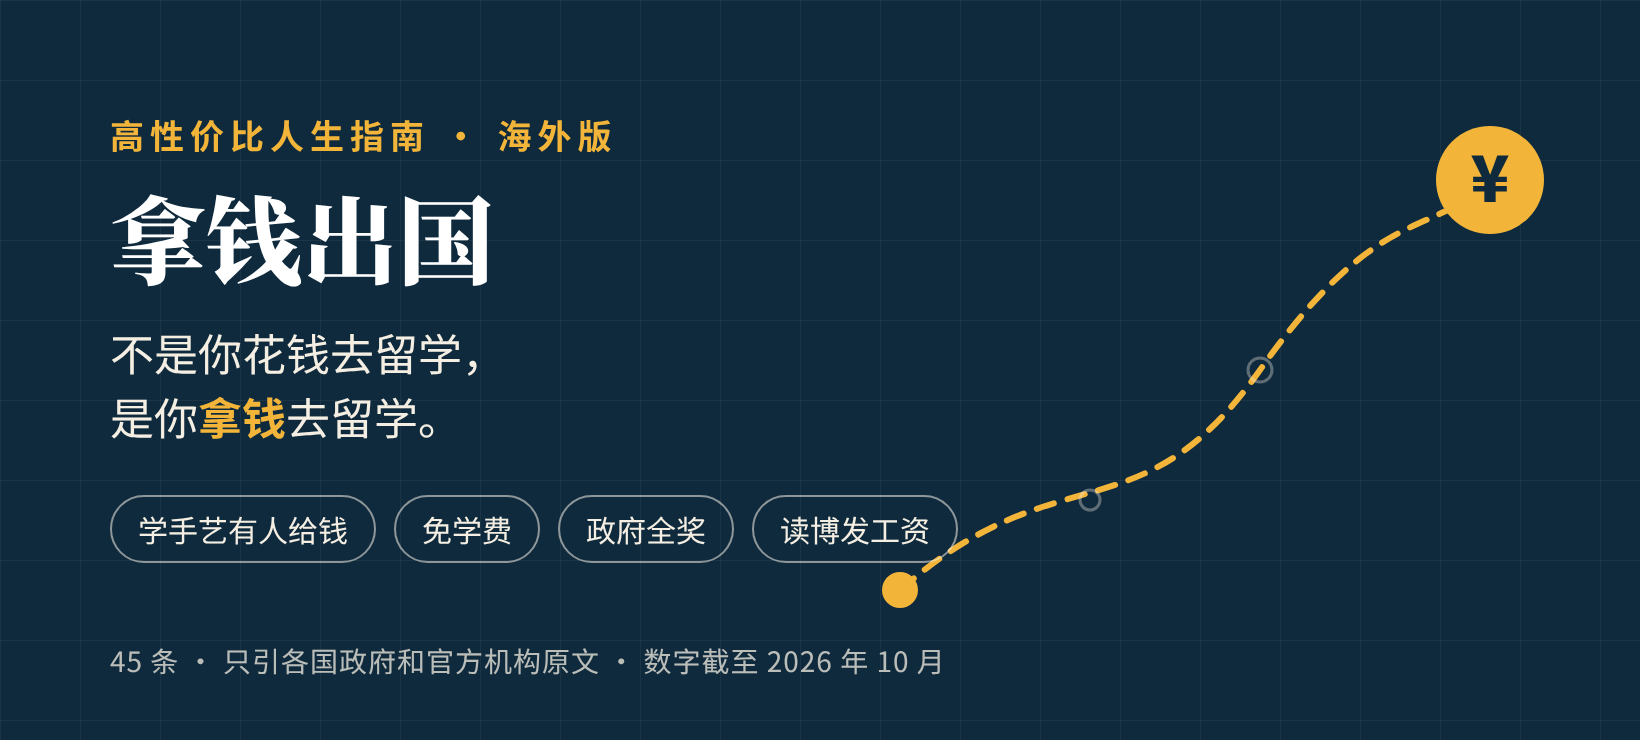
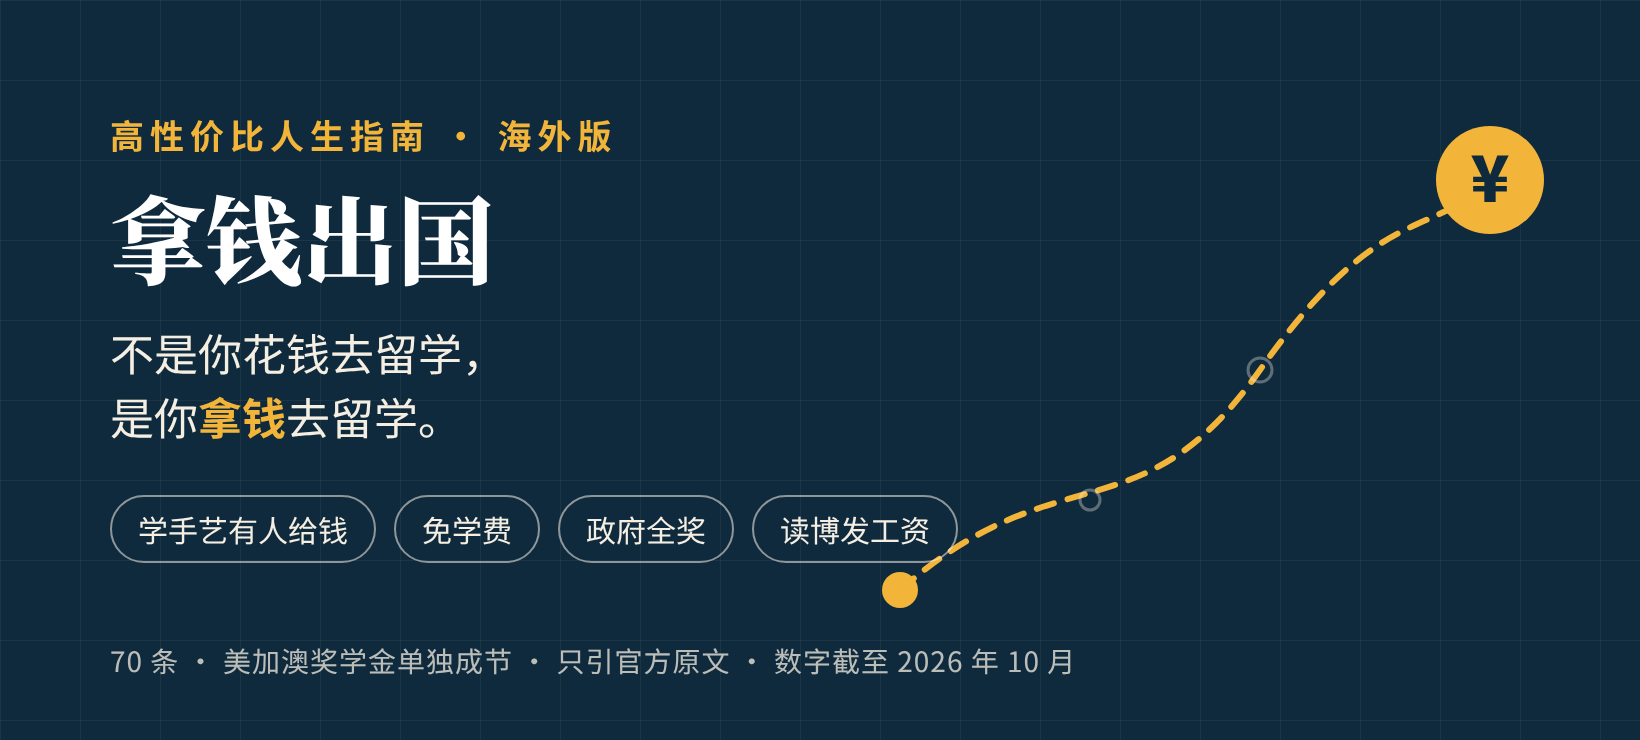
首页和检索页加入美加澳三节和联系方式

Changed region(s): [[0.1244, 0.8703, 0.653, 0.9324], [0.0622, 0.8703, 0.0933, 0.9014]]

diff --git a/index.html b/index.html
@@ -36,6 +36,8 @@
   .tag b{color:#f2b53a}
   .meta{margin-top:10px;font-size:13px;color:rgba(245,239,227,.75)}
   .meta a{color:#f5efe3}
+  .follow{margin-top:10px;display:inline-block;background:rgba(242,181,58,.15);border:1px solid rgba(242,181,58,.5);border-radius:8px;padding:4px 10px;font-size:14px}
+  .follow b{color:#f2b53a}
   .controls{background:var(--bg);border-bottom:1px solid var(--line);padding:12px 0}
   @media (min-width:760px){.controls{position:sticky;top:0;z-index:5}}
   .search{width:100%;padding:10px 12px;font-size:16px;border:1px solid var(--line);border-radius:10px;background:var(--panel);color:var(--ink)}
@@ -79,6 +81,7 @@
     <h1>拿钱出国</h1>
     <p class="tag">不是你花钱去留学，是你<b>拿钱</b>去留学。</p>
     <div class="meta"><span id="total">…</span> · 只引各国政府和官方机构原文 · 数字截至 2026 年 10 月 · <a href="https://github.com/BeckyGlobal/PaidToStudyAbroad">GitHub 仓库</a></div>
+    <div class="follow">关注作者：微信视频号 <b>Becky在地球村</b></div>
   </div>
 </header>
 
@@ -100,13 +103,14 @@
   <div id="list"></div>
   <footer>
     来源只引各国政府、政府机构和使领馆、法律原文、公立大学官网，以及政府委托或出资运营的项目官网。奖学金和签证政策每年都改，申请前请照每条的来源链接再查一遍。<br>
+    想看更多出国路径和海外生活，关注微信视频号「Becky在地球村」。<br>
     本指南不是法律、移民或财务意见。正文按 CC BY 4.0 发布。灵感来自《高性价比人生指南》（eternity4719），本站是读者做的非官方衍生作品。
   </footer>
 </main>
 
 <script>
 (function(){
-  var FILES=['01-学手艺有人给钱.md','02-学费低或不要学费.md','03-政府全奖.md','04-读博就是上班.md'];
+  var FILES=['01-学手艺有人给钱.md','02-学费低或不要学费.md','03-政府全奖.md','04-读博就是上班.md','05-美国奖学金.md','06-加拿大奖学金.md','07-澳大利亚奖学金.md'];
   var COUNTRIES=[
     ['加拿大',['加拿大','魁北克']],['德国',['德国','DAAD']],['奥地利',['奥地利','FWF']],['日本',['日本','大阪','冈山','宫崎','三重','JASSO','文部科学省','EJU']],
     ['捷克',['捷克']],['波兰',['波兰']],['匈牙利',['匈牙利']],['法国',['法国','埃菲尔']],['意大利',['意大利']],['新加坡',['新加坡']],
@@ -159,6 +163,7 @@
       var base=clean(it.title+' '+it.plain); if(/^别/.test(it.title)) base+=' '+clean(it.gain);
       it.cty=COUNTRIES.filter(function(c){return c[1].some(function(k){return base.indexOf(k)>=0;});}).map(function(c){return c[0];});
       if(!it.cty.length){var h2=clean(hay); it.cty=COUNTRIES.filter(function(c){return c[1].some(function(k){return h2.indexOf(k)>=0;});}).map(function(c){return c[0];}).slice(0,3);}
+      var SC={5:'美国',6:'加拿大',7:'澳大利亚'}; if(SC[sn] && it.cty.indexOf(SC[sn])<0) it.cty.unshift(SC[sn]);
       items.push(it);
     });
   }

diff --git a/README.md b/README.md
@@ -4,17 +4,17 @@
 
 # 高性价比人生指南 · 海外版：拿钱出国
 
-讲怎么不花钱、甚至拿着钱出国学东西。学手艺、学护理，读本科、硕士、博士，蓝领白领都有路。<br>
-45 条建议，每条写明你要付出什么、能换回什么、证据有多硬，来源只引各国政府、政府机构、法律原文和公立大学官网。
+讲怎么不花钱、甚至拿着钱出国学东西。学手艺、学护理，读本科、硕士、博士，蓝领白领都有路。美国、加拿大、澳大利亚的奖学金单独成节。<br>
+70 条建议，每条写明你要付出什么、能换回什么、证据有多硬，来源只引各国政府、政府机构、法律原文和公立大学官网。
 
 不用全做：这是一份备选单，不是任务清单。挑一两条够得着的，就算数。
 
 奖学金和签证政策每年都改，书里的数字可能过时，也可能有错。真去申请时，以各国政府、使领馆和学校的最新官方说法为准。发现写错了，欢迎[提 issue](https://github.com/BeckyGlobal/PaidToStudyAbroad/issues)。
 
 [![在线检索](https://img.shields.io/badge/%E5%9C%A8%E7%BA%BF%E6%A3%80%E7%B4%A2-%E7%82%B9%E8%BF%99%E9%87%8C%E6%89%93%E5%BC%80-3451b2?style=flat-square)](https://beckyglobal.github.io/PaidToStudyAbroad/)
-[![条目](https://img.shields.io/badge/%E6%9D%A1%E7%9B%AE-45%20%E6%9D%A1-18794e?style=flat-square)](#目录)
-[![证据分级](https://img.shields.io/badge/%E8%AF%81%E6%8D%AE%E5%88%86%E7%BA%A7-A%2029%20%C2%B7%20B%2016-915930?style=flat-square)](#证据分级)
-[![官方链接](https://img.shields.io/badge/%E5%AE%98%E6%96%B9%E9%93%BE%E6%8E%A5-206%20%E6%9D%A1-565a5f?style=flat-square)](docs/核实记录/)
+[![条目](https://img.shields.io/badge/%E6%9D%A1%E7%9B%AE-70%20%E6%9D%A1-18794e?style=flat-square)](#目录)
+[![证据分级](https://img.shields.io/badge/%E8%AF%81%E6%8D%AE%E5%88%86%E7%BA%A7-A%2050%20%C2%B7%20B%2020-915930?style=flat-square)](#证据分级)
+[![官方链接](https://img.shields.io/badge/%E5%AE%98%E6%96%B9%E9%93%BE%E6%8E%A5-318%20%E6%9D%A1-565a5f?style=flat-square)](docs/核实记录/)
 [![许可](https://img.shields.io/badge/%E8%AE%B8%E5%8F%AF-CC%20BY%204.0-565a5f?style=flat-square)](#许可)
 
 ### [打开在线检索页](https://beckyglobal.github.io/PaidToStudyAbroad/)
@@ -27,7 +27,12 @@
 </td></tr>
 <tr><td align="right"><b>检索</b></td><td align="left">
 
-[在线检索页](https://beckyglobal.github.io/PaidToStudyAbroad/)：按国家、按节、按证据等级、按花不花钱筛选全部 45 条
+[在线检索页](https://beckyglobal.github.io/PaidToStudyAbroad/)：按国家、按节、按证据等级、按花不花钱筛选全部 70 条
+
+</td></tr>
+<tr><td align="right"><b>关注作者</b></td><td align="left">
+
+微信视频号「Becky在地球村」：讲出国路径、海外工作和生活
 
 </td></tr>
 <tr><td align="right"><b>灵感来源</b></td><td align="left">
@@ -47,6 +52,9 @@
 | 想出去读本科、硕士，哪些国家不要学费或者学费很低，签证要存多少钱，能不能打工？ | [2. 本科和硕士：不要学费，或者学费很低的地方](book/02-学费低或不要学费.md) |
 | 哪些政府奖学金收中国人，每月给多少，拿了钱要不要回国服务？ | [3. 政府给全奖：本科、硕士、博士](book/03-政府全奖.md) |
 | 读博能不能当成一份工作，每月拿工资、交社保，毕业还能留下来？ | [4. 读博就是上班：有的国家博士生是员工，按月发工资](book/04-读博就是上班.md) |
+| 去美国读本科，哪些学校给国际生助学金、录取看不看钱？读研究生，学校和校外基金各有哪些钱？ | [5. 美国：本科和研究生怎么拿奖学金](book/05-美国奖学金.md) |
+| 去加拿大读本科有哪些国际生大奖和自动奖学金？读研究生，学校资助包、联邦和省政府奖学金怎么拿？ | [6. 加拿大：本科和研究生怎么拿奖学金](book/06-加拿大奖学金.md) |
+| 去澳大利亚读书，哪些大学给国际生减学费，研究型博士和授课型硕士各有什么奖学金？ | [7. 澳大利亚：本科和研究生怎么拿奖学金](book/07-澳大利亚奖学金.md) |
 | 哪些名气很大的奖学金不收中国人，哪些国家以前免学费、现在不免了？ | [别白费劲](#别白费劲) |
 
 ## 怎么读
@@ -92,7 +100,7 @@
 | B | 官方有依据，但金额因地区、学校、合同而不同，或者要按官方数字推算 |
 | C | 经验或共识，没有官方原文 |
 
-全书 45 条中 A 级 29 条、B 级 16 条、C 级 0 条。来源只引各国政府、政府机构和使领馆、法律原文、公立大学官网，以及政府委托或出资运营的项目官网（比如 DAAD、魁北克的 boursesqma.com），不引中介、媒体和自媒体。全书共 206 条官方链接（含来源和申请入口）。
+全书 70 条中 A 级 50 条、B 级 20 条、C 级 0 条。来源只引各国政府、政府机构和使领馆、法律原文、公立大学官网，以及政府委托或出资运营的项目官网（比如 DAAD、魁北克的 boursesqma.com），不引中介、媒体和自媒体。全书共 318 条官方链接（含来源和申请入口）。
 
 ## 目录
 
@@ -169,9 +177,55 @@
 
    </details>
 
+5. [美国：本科和研究生怎么拿奖学金](book/05-美国奖学金.md)：本科：用 CSS Profile 名单筛出给国际生资助的学校，对国际生 need-blind 和 need-aware 的学校各是哪些，学校给国际生的 merit 奖学金。研究生：博士全额资助和最低生活费，学校的 fellowship 和硕士助教岗位，AAUW、P.E.O.、Humphrey 等校外基金。节末一条讲 FAFSA 和 NSF 这类只给美国人的钱。共 8 条。
+
+   <details><summary>展开本节 8 条</summary>
+
+   5.1 用 CSS Profile 名单筛出给国际生资助的学校：2027-28 年有 183 个学校和项目在「International Students」一栏标了 Yes  
+   5.2 申请对国际生 need-blind 的学校：录取不看钱，哈佛家庭年收入 10 万美元以下父母不出钱  
+   5.3 申请对国际生 need-aware 但给助学金的学校：要钱会影响录取，录了康奈尔补足 100% 需求  
+   5.4 拿按成绩发的 merit 奖学金：范德堡给全额学费，普通公立大学 GPA 3.5 每年 10,000 美元  
+   5.5 读博士争取全额资助：耶鲁 2026-27 年生活费至少 52,046 美元，学费全免还管医保  
+   5.6 申请学校给的 fellowship 和硕士助教岗位：斯坦福 Knight-Hennessy 2026 级选了 87 人，学费最多管 3 年  
+   5.7 申请校外基金：AAUW 给读理工科的女性硕士 20,000 美元、博士 25,000 美元  
+   5.8 别白费劲：FAFSA 联邦助学金和 NSF 研究生奖学金不给中国留学生  
+
+   </details>
+
+6. [加拿大：本科和研究生怎么拿奖学金](book/06-加拿大奖学金.md)：本科：多伦多大学皮尔逊、UBC 国际学者等要单独申请的大奖，按录取成绩自动给的入学奖学金，学费较低的纽芬兰纪念大学。研究生：学校资助包的保底金额，联邦 CGRS 博士奖学金，安大略 OGS 和魁北克 PBEEE，特鲁多基金会和 Mitacs。节末一条讲只收加拿大人或已经停办的项目。共 10 条。
+
+   <details><summary>展开本节 10 条</summary>
+
+   6.1 让高中推荐你申请多伦多大学皮尔逊奖学金：4 年学费、书本、杂费、住宿全包  
+   6.2 申请 UBC 国际学者计划：成绩全 A、家里确实缺钱、高中推荐，11 月 15 日截止  
+   6.3 单独申请其他大学的国际生大奖：约克大学 4 年共 180,000 加元，麦吉尔专给中国公民 10,000 加元  
+   6.4 按录取成绩自动拿入学奖学金：约克 90 分以上 4 年最多 37,500 加元，滑铁卢国际新生 10,000 加元  
+   6.5 去纽芬兰纪念大学读本科：国际生学费每学分 750 加元，2026/27 学年冻结不涨  
+   6.6 读研究型硕士和博士，先看学校的资助包：UBC 博士从 2026 年 9 月起每年至少 40,000 加元  
+   6.7 读博期间申请联邦 CGRS 博士奖学金：每年 40,000 加元发 3 年，最多 15% 给国际生  
+   6.8 申请省政府的研究生奖学金：安大略 OGS 一年最多 15,000 加元，魁北克 PBEEE 博士每年 25,000 加元  
+   6.9 申请校外基金：特鲁多基金会博士奖学金每年最多 50,000 加元，Mitacs 带中国本科生去加拿大做 12 周科研  
+   6.10 别白费劲：这些加拿大项目不收中国大陆学生，或者已经停办  
+
+   </details>
+
+7. [澳大利亚：本科和研究生怎么拿奖学金](book/07-澳大利亚奖学金.md)：本科：悉尼、莫纳什等名校的国际本科大奖，昆士兰、澳国立等自动评的学费减免，去偏远地区读书的 Destination Australia。研究生：大学自己出钱的研究型博士奖学金，授课型硕士的学费减免，西澳等州政府奖学金。节末一条讲学费贷款、政府资助学位和几项不收中国大陆学生的大学奖学金。共 7 条。
+
+   <details><summary>展开本节 7 条</summary>
+
+   7.1 冲名校的国际本科大奖：悉尼大学和莫纳什免 100% 学费，名额只有几个到 20 个  
+   7.2 申请入学就自动评：昆士兰大学每年减 25% 学费，澳国立第一年减 20%  
+   7.3 去偏远地区读本科：澳洲政府的 Destination Australia 每年最多 15,000 澳元，国际生也能拿  
+   7.4 读研究型博士：墨尔本、莫纳什、悉尼大学自己出钱免学费，悉尼大学 2026 年生活费每年 42,754 澳元  
+   7.5 读授课型硕士：新南威尔士大学最高免全额学费，悉尼大学最高给 60,000 澳元、发 1 年  
+   7.6 申请州政府奖学金：西澳州长奖学金名单上有中国，每人 50,000 澳元，每年只有 10 个  
+   7.7 别白费劲：澳洲的学费贷款、政府资助学位，和这几项 20% 学费奖，都不给中国大陆学生  
+
+   </details>
+
 ## 别白费劲
 
-有些很有名的奖学金不收中国大陆申请人，比如英联邦奖学金、Australia Awards、新西兰 Manaaki、美国富布赖特外国学生项目、日本-世界银行联合研究生奖学金、亚行-日本奖学金、日本 JDS 和韩国 KOICA 奖学金。有些国家以前免学费，现在不免了，比如挪威（2023 年秋季起收费）。详见第 2 节第 12、13 条和第 3 节第 15 条。
+有些很有名的奖学金不收中国大陆申请人，比如英联邦奖学金、Australia Awards、新西兰 Manaaki、美国富布赖特外国学生项目、日本-世界银行联合研究生奖学金、亚行-日本奖学金、日本 JDS 和韩国 KOICA 奖学金。美国的 FAFSA 联邦助学金、NSF 研究生奖学金，加拿大的 CGRS 硕士奖学金，澳大利亚的学费贷款，也都只给本国人。有些国家以前免学费，现在不免了，比如挪威（2023 年秋季起收费）。详见第 2 节第 12、13 条，第 3 节第 15 条，以及第 5、6、7 节的最后一条。
 
 ## 免责声明
 
